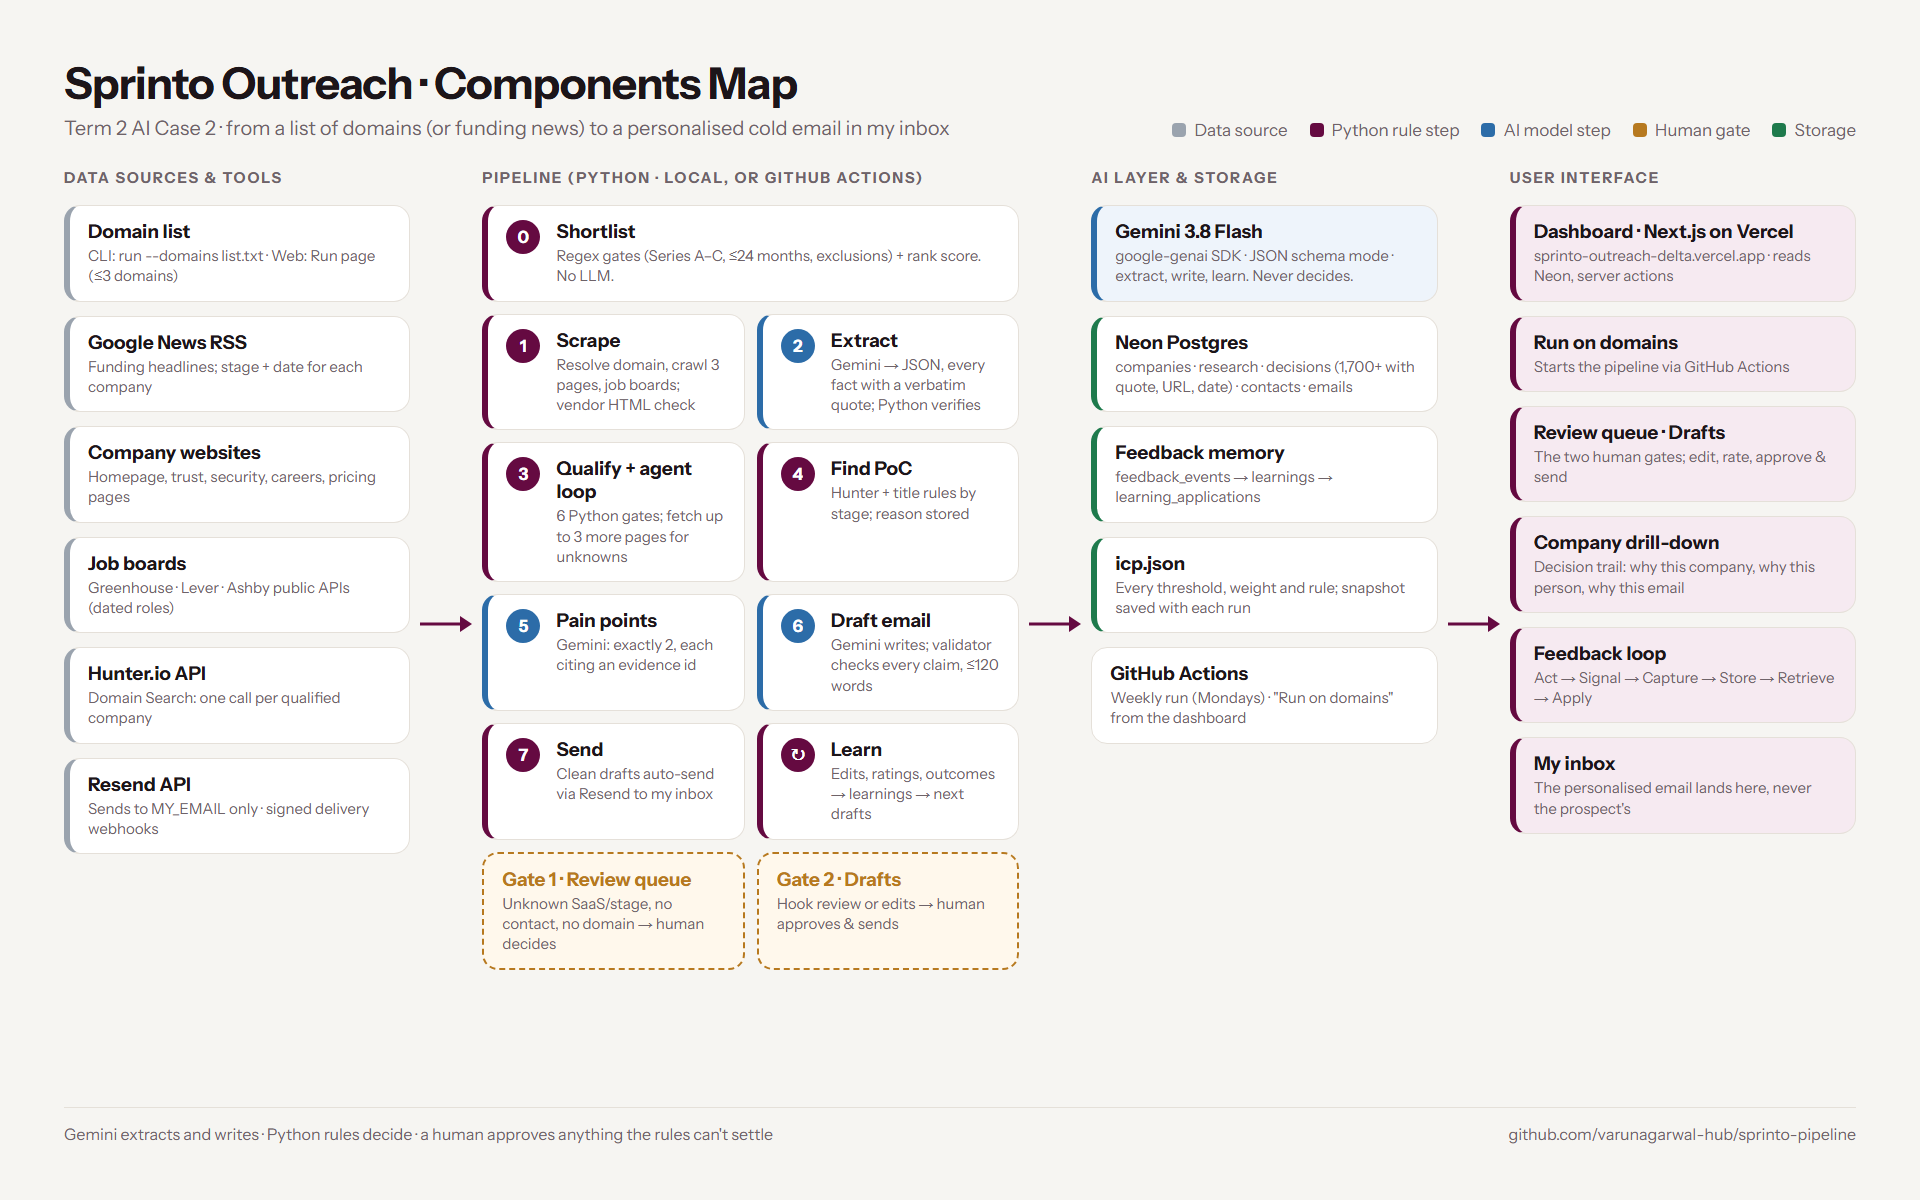
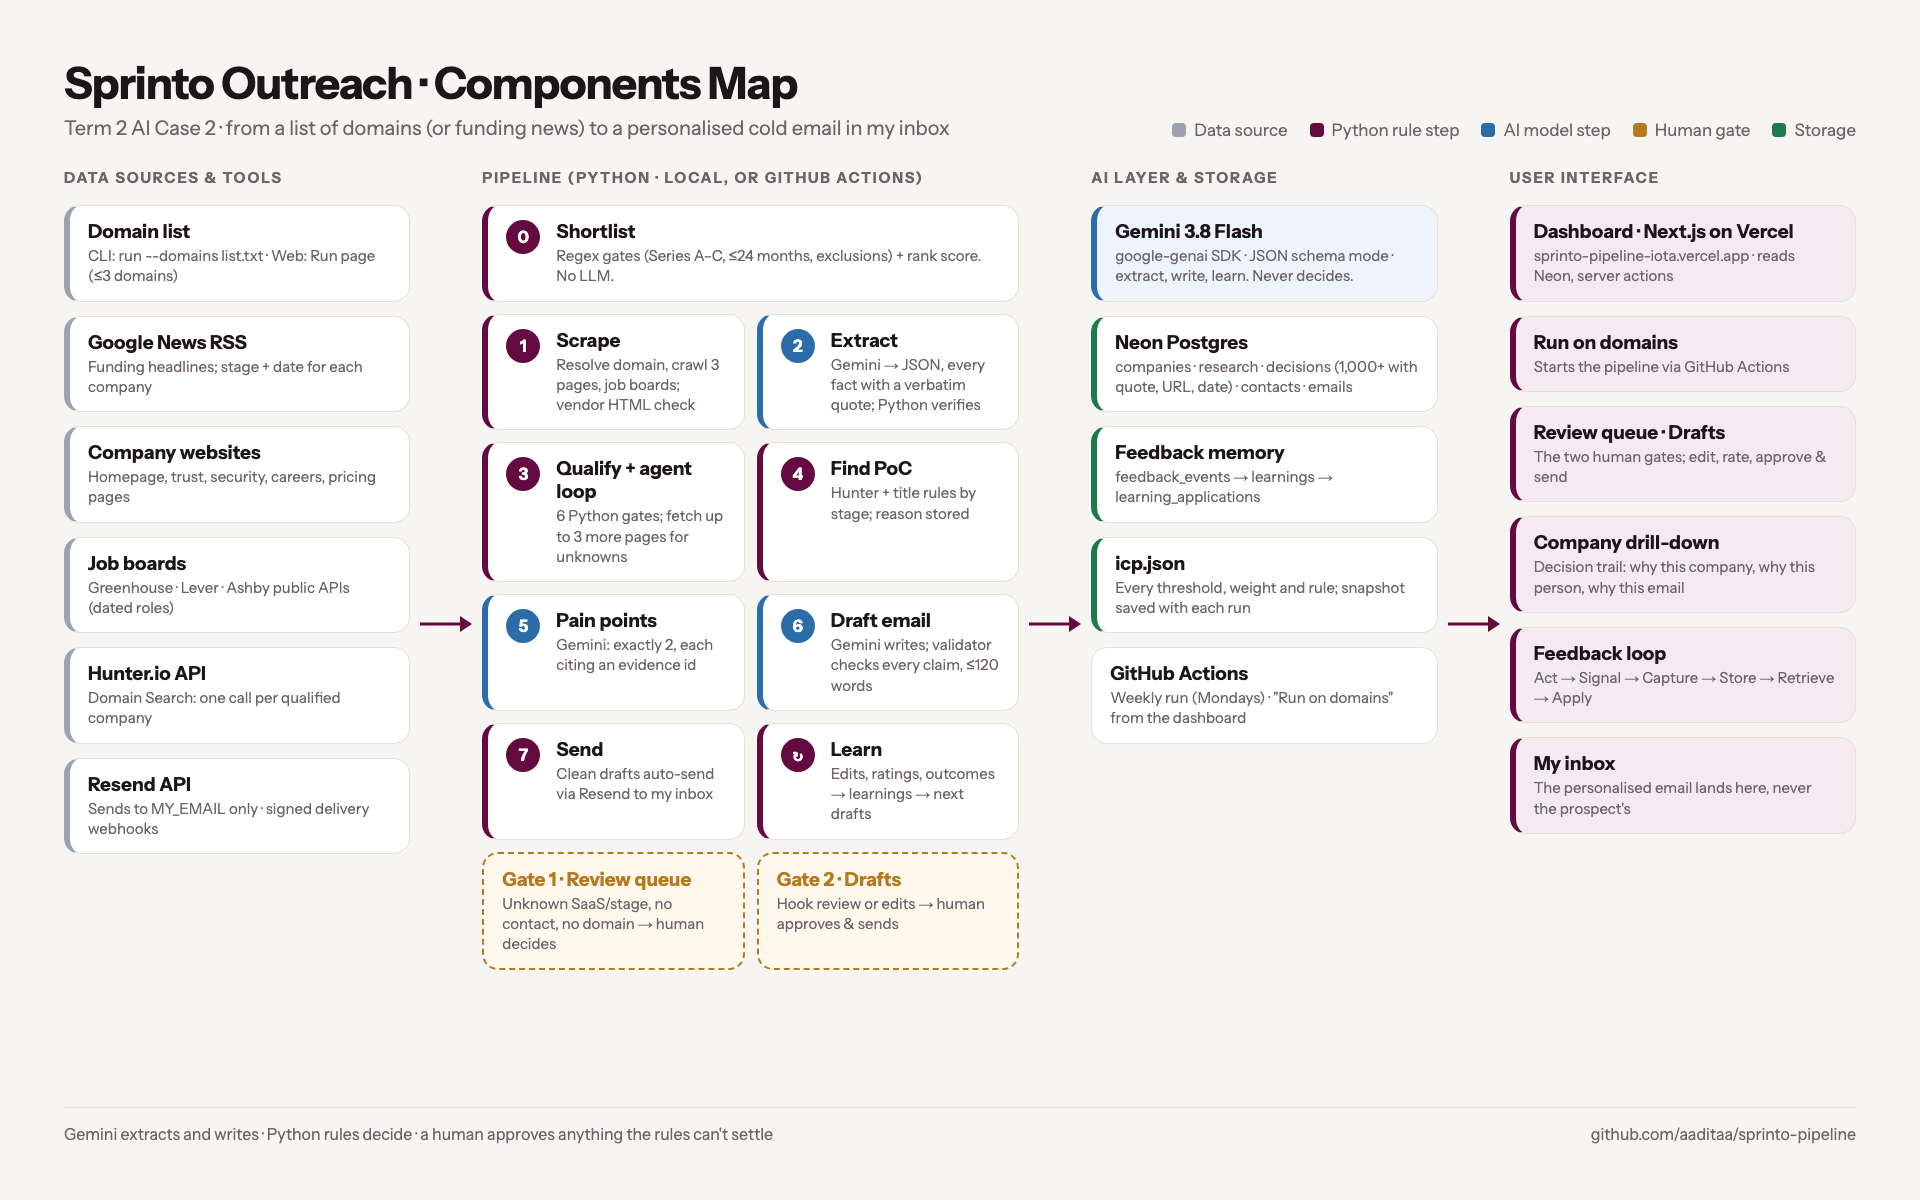
Deploy to Vercel and update components map for this repo
Live at sprinto-pipeline-iota.vercel.app (CLI deploy; git auto-deploy
pending GitHub App authorization). Regenerated components-map.png from
its HTML source with this repo's URLs and a real decisions count.

diff --git a/docs/components-map.html b/docs/components-map.html
@@ -91,7 +91,7 @@
     <div class="col">
       <h2>AI layer &amp; storage</h2>
       <div class="card aibox"><b>Gemini 3.8 Flash</b><small>google-genai SDK · JSON schema mode · extract, write, learn. Never decides.</small></div>
-      <div class="card store"><b>Neon Postgres</b><small>companies · research · decisions (1,700+ with quote, URL, date) · contacts · emails</small></div>
+      <div class="card store"><b>Neon Postgres</b><small>companies · research · decisions (1,000+ with quote, URL, date) · contacts · emails</small></div>
       <div class="card store"><b>Feedback memory</b><small>feedback_events → learnings → learning_applications</small></div>
       <div class="card store"><b>icp.json</b><small>Every threshold, weight and rule; snapshot saved with each run</small></div>
       <div class="card"><b>GitHub Actions</b><small>Weekly run (Mondays) · "Run on domains" from the dashboard</small></div>
@@ -101,7 +101,7 @@
     <!-- UI -->
     <div class="col">
       <h2>User interface</h2>
-      <div class="card ui"><b>Dashboard · Next.js on Vercel</b><small>sprinto-outreach-delta.vercel.app · reads Neon, server actions</small></div>
+      <div class="card ui"><b>Dashboard · Next.js on Vercel</b><small>sprinto-pipeline-iota.vercel.app · reads Neon, server actions</small></div>
       <div class="card ui"><b>Run on domains</b><small>Starts the pipeline via GitHub Actions</small></div>
       <div class="card ui"><b>Review queue · Drafts</b><small>The two human gates; edit, rate, approve &amp; send</small></div>
       <div class="card ui"><b>Company drill-down</b><small>Decision trail: why this company, why this person, why this email</small></div>
@@ -112,7 +112,7 @@
 
   <footer>
     <span>Gemini extracts and writes · Python rules decide · a human approves anything the rules can't settle</span>
-    <span>github.com/varunagarwal-hub/sprinto-pipeline</span>
+    <span>github.com/aaditaa/sprinto-pipeline</span>
   </footer>
 </div>
 </body>

diff --git a/README.md b/README.md
@@ -8,10 +8,11 @@ for what has and hasn't been validated in this copy (short version: all 117 pipe
 tests and the web lint/typecheck/build pass; live runs need your own API keys and a
 database — nothing has been faked to look otherwise).
 
-**Live dashboard:** not yet deployed from this repo. (The URL below is the original
-build's own Vercel deployment, kept only because the rest of this README still
-describes it; this copy needs its own `vercel link` / project before that line is true
-here too.) ~~https://sprinto-outreach-delta.vercel.app~~
+**Live dashboard:** https://sprinto-pipeline-iota.vercel.app — deployed from this repo
+(`aaditaavashisht15-7741s-projects/sprinto-pipeline` on Vercel), reading the dedicated
+`sprinto` Neon database this copy uses. Deployed via the Vercel CLI directly (not
+git-connected yet — the Vercel GitHub App needs to be authorized for this repo first;
+until then, redeploy with `cd web && vercel --prod` after a push).
 
 This pipeline finds recently funded SaaS companies, works out which ones need Sprinto, picks the right person to contact, and drafts a personalised cold email. A human approves each email before it is sent. Every decision (why this company, why this person, why this email) can be traced to evidence stored in Neon: a verbatim quote, its source URL and a date.
 
